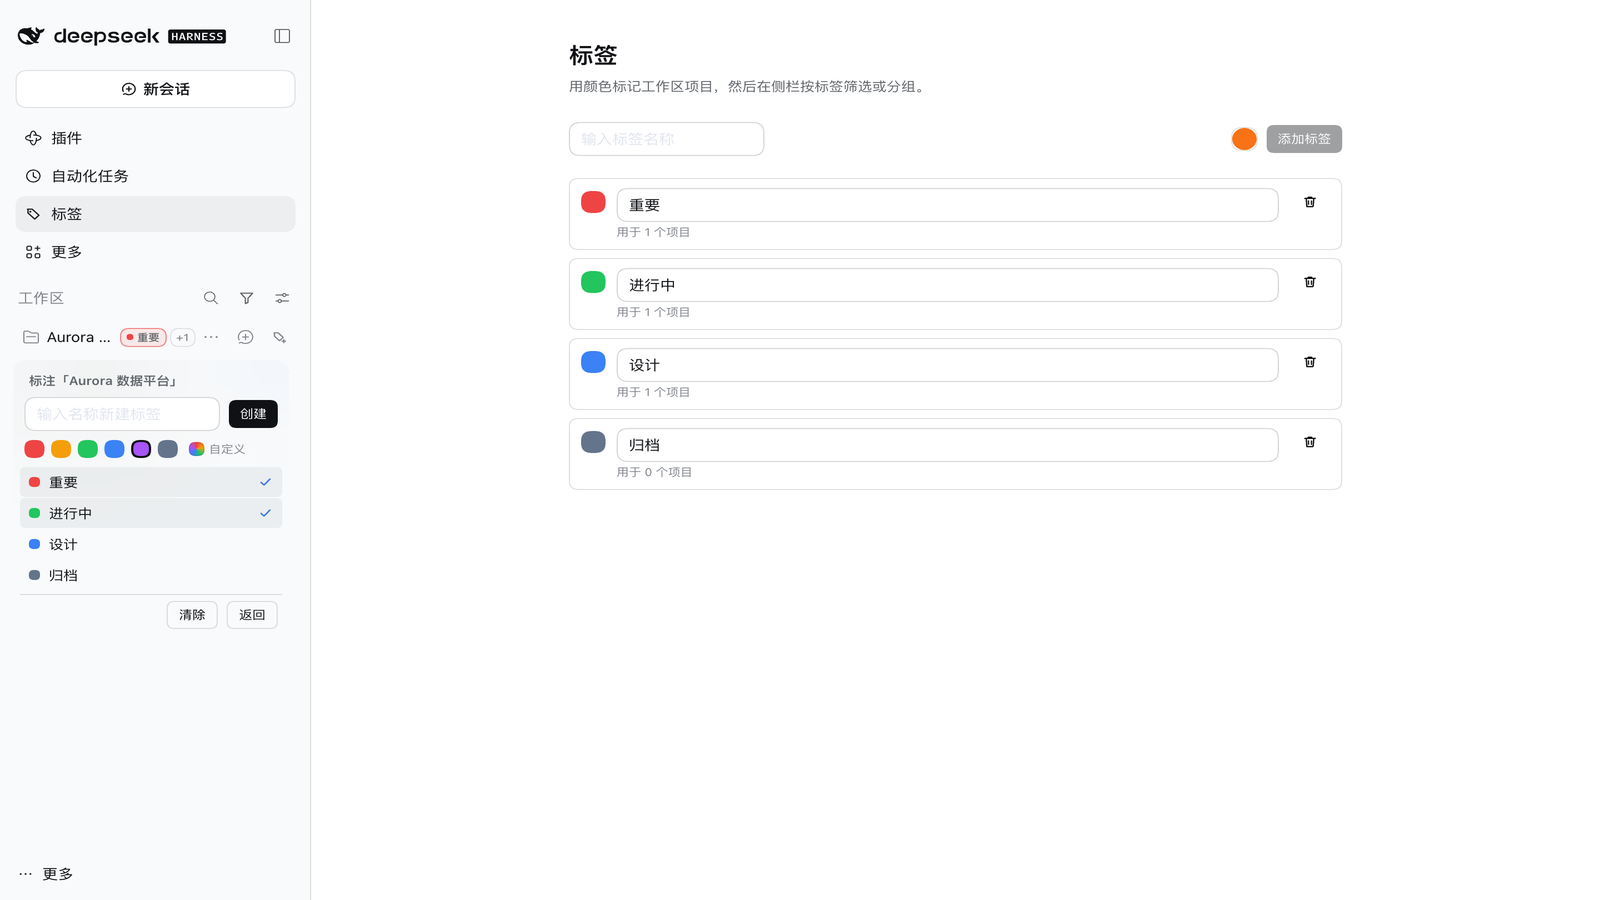
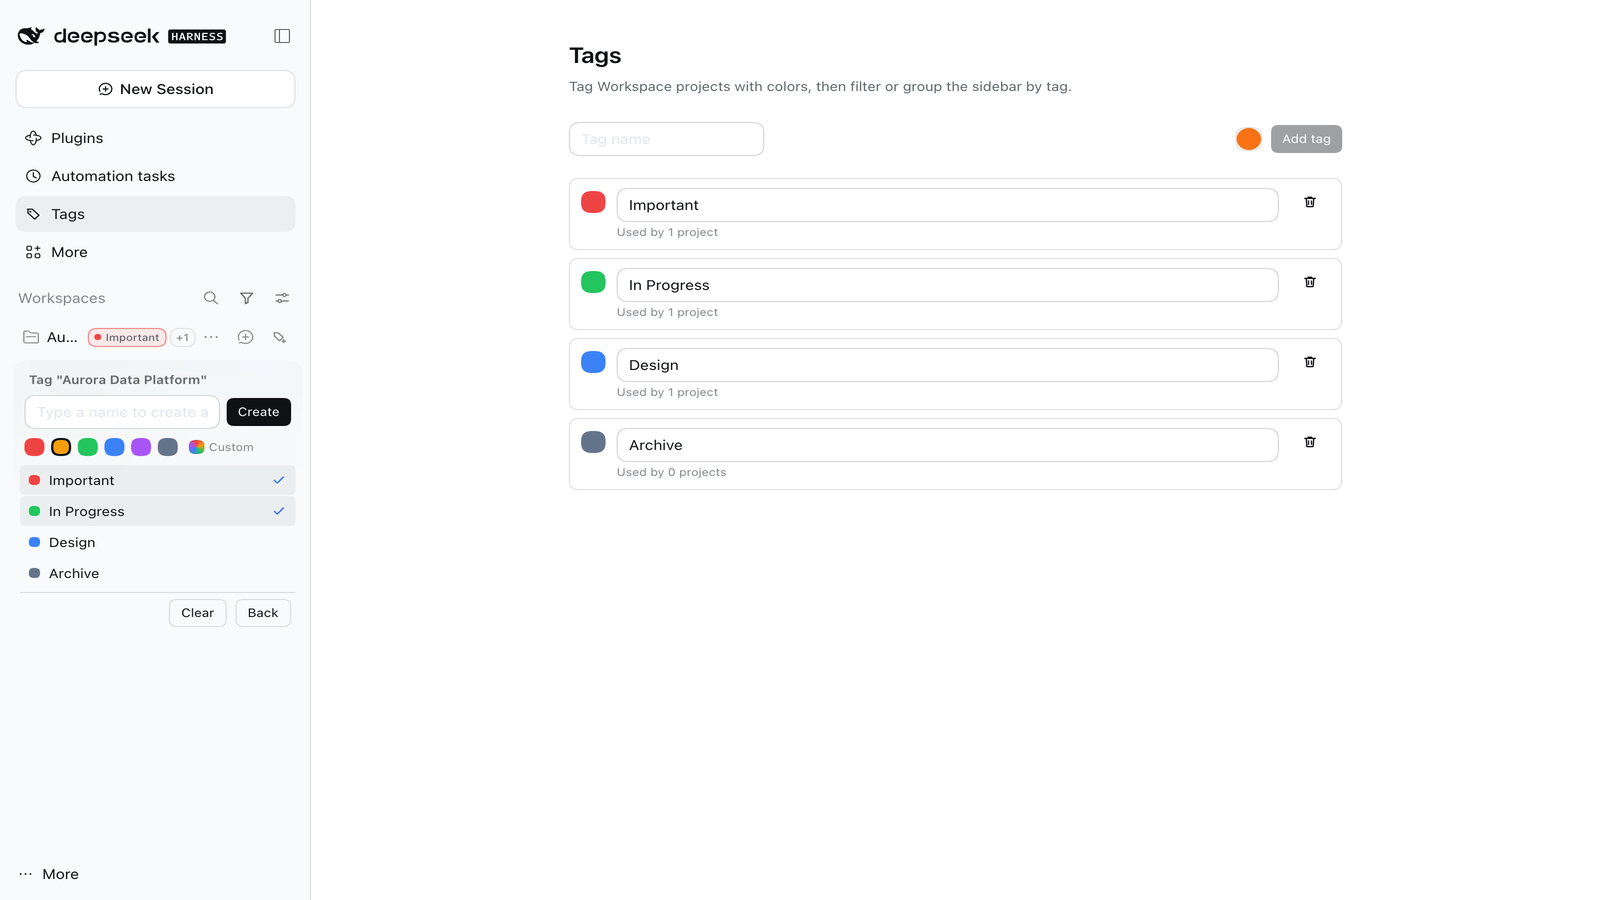
feat: add English screenshots and fix English pluralization
Add English-UI screenshots and point README.en.md at them, refresh the X
launch card with the English sidebar, and use singular copy for one-project
usage and group removal. Release 0.3.2.

diff --git a/src/client/locales.ts b/src/client/locales.ts
@@ -21,6 +21,7 @@ export const zh = {
   'page.empty': '还没有标签',
   'page.emptyHint': '在上方输入名称添加第一个标签，然后到工作区行上标注。',
   'page.usage': '用于 {count} 个项目',
+  'page.usageOne': '用于 {count} 个项目',
   'page.delete': '删除',
   'page.deleteConfirm': '删除「{name}」？它会从所有项目中移除。',
   'page.deleteCancel': '取消',
@@ -52,6 +53,7 @@ export const zh = {
   'group.clear.aria': '取消「{name}」标签',
   'group.clear.title': '取消标签「{name}」？',
   'group.clear.body': '将从该分组的 {count} 个项目移除该标签。标签本身会保留，可稍后再次使用。',
+  'group.clear.bodyOne': '将从该分组的 {count} 个项目移除该标签。标签本身会保留，可稍后再次使用。',
   'group.clear.confirm': '确认取消',
   'group.clear.back': '返回',
   'common.close': '关闭',
@@ -77,6 +79,7 @@ export const en: Record<WorkspaceTagsKey, string> = {
   'page.empty': 'No tags yet',
   'page.emptyHint': 'Add the first tag above, then annotate a Workspace row in the sidebar.',
   'page.usage': 'Used by {count} projects',
+  'page.usageOne': 'Used by {count} project',
   'page.delete': 'Delete',
   'page.deleteConfirm': 'Delete "{name}"? It will be removed from every project.',
   'page.deleteCancel': 'Cancel',
@@ -108,6 +111,7 @@ export const en: Record<WorkspaceTagsKey, string> = {
   'group.clear.aria': 'Remove tag "{name}"',
   'group.clear.title': 'Remove tag "{name}"?',
   'group.clear.body': 'This removes the tag from {count} projects in this group. The tag itself is kept and can be used again.',
+  'group.clear.bodyOne': 'This removes the tag from the project in this group. The tag itself is kept and can be used again.',
   'group.clear.confirm': 'Remove',
   'group.clear.back': 'Back',
   'common.close': 'Close',

diff --git a/src/client/components/GroupClearDialog.tsx b/src/client/components/GroupClearDialog.tsx
@@ -27,6 +27,7 @@ export interface GroupClearDialogProps {
 export function GroupClearDialog({ snapshot, t, onDismiss, onConfirm }: GroupClearDialogProps): ReactNode {
   const request = snapshot.groupClear
   if (request === null) return null
+  const count = request.workspaceIds.length
   return (
     <Modal
       open
@@ -45,7 +46,7 @@ export function GroupClearDialog({ snapshot, t, onDismiss, onConfirm }: GroupCle
       }
     >
       <p className="dshwt-dialog-body">
-        {t('group.clear.body', { count: request.workspaceIds.length })}
+        {t(count === 1 ? 'group.clear.bodyOne' : 'group.clear.body', { count })}
       </p>
     </Modal>
   )

diff --git a/src/client/components/TagManager.tsx b/src/client/components/TagManager.tsx
@@ -183,7 +183,7 @@ function TagRow({ tag, usage, t, renameTag, recolorTag, removeTag }: TagRowProps
           {confirming ? (
             <span className="dshwt-usage">{t('page.deleteConfirm', { name: tag.text })}</span>
           ) : (
-            <span className="dshwt-usage">{t('page.usage', { count: usage })}</span>
+            <span className="dshwt-usage">{t(usage === 1 ? 'page.usageOne' : 'page.usage', { count: usage })}</span>
           )}
           {error !== null ? <div className="dshwt-error" role="alert">{nameErrorMessage(error, t)}</div> : null}
         </div>

diff --git a/README.en.md b/README.en.md
@@ -8,7 +8,7 @@ English | [中文](README.md)
 [![License: MIT](https://img.shields.io/badge/license-MIT-blue.svg)](LICENSE)
 [![DSH](https://img.shields.io/badge/DSH-0.2.1--rc.5-4c6ef5)](docs/COMPATIBILITY.md)
 
-![Workspace tags preview](assets/preview.png)
+![Workspace tags preview](assets/en/preview.png)
 
 ## Why
 
@@ -28,13 +28,13 @@ The screenshots below show the UI in Chinese; the plugin ships English strings a
 
 ### Colored tags beside project names
 
-![Sidebar tags](assets/screenshot-sidebar.png)
+![Sidebar tags](assets/en/sidebar.png)
 
 Tags appear to the right of the project name: the chip contains a **colored dot**, its **border uses the tag color**, and the label follows the dot. One chip is shown at most; the rest collapse into `+N`. Hover the chip to see every tag on that project.
 
 ### Inline tagging
 
-![Annotation picker](assets/screenshot-picker.png)
+![Annotation picker](assets/en/picker.png)
 
 Hover a workspace row and click the tag button at the end of the row (or click an existing chip) to open the picker:
 
@@ -44,11 +44,11 @@ Hover a workspace row and click the tag button at the end of the row (or click a
 - If the name already exists, the existing tag is assigned instead of creating a duplicate
 - Click a tag row to toggle its assignment; **Clear** removes all tags from that project
 
-![Custom color](assets/screenshot-picker-custom.png)
+![Custom color](assets/en/picker-custom.png)
 
 ### Filter by tag
 
-![Tag filter](assets/screenshot-filter.png)
+![Tag filter](assets/en/filter.png)
 
 A funnel icon appears in the workspace header once tags exist:
 
@@ -59,21 +59,21 @@ A funnel icon appears in the workspace header once tags exist:
 
 ### Group by tag
 
-![Group by tag](assets/screenshot-grouped.png)
+![Group by tag](assets/en/grouped.png)
 
 View options (the slider icon in the workspace header) → grouping → **By tag**. The menu entry uses the same layout as the native grouping options: icon on the left, label on the right.
 
-![Grouping menu](assets/screenshot-view-menu.png)
+![Grouping menu](assets/en/view-menu.png)
 
 The list is grouped in tag creation order. Group rows use the same format as native workspace rows (34px tall, dot/chevron, 14px bold tag name, project count); the projects under a group are indented one level. Untagged projects go to **Untagged**. Selecting any native grouping mode exits this mode.
 
 **Collapse**: click a group row (or press Enter/Space) to collapse/expand it. The row stays visible and keeps the count.
 
-![Collapsed group](assets/screenshot-group-collapsed.png)
+![Collapsed group](assets/en/group-collapsed.png)
 
 **Remove from group**: hover a group row and click **Remove**; after confirmation the tag is removed from every project in that group. The tag definition itself is kept and can be used again.
 
-![Remove tag from group](assets/screenshot-group-confirm.png)
+![Remove tag from group](assets/en/group-confirm.png)
 
 > A project appears once: with multiple tags it is grouped under the **earliest-created** tag (the chips still show all tags).
 >
@@ -81,7 +81,7 @@ The list is grouped in tag creation order. Group rows use the same format as nat
 
 ### Tags page
 
-![Tags page](assets/screenshot-tag-page.png)
+![Tags page](assets/en/tag-page.png)
 
 A **Tags** row is added above **More** in the sidebar panel list. It opens the tag manager:
 

diff --git a/docs/X-PROMOTION.md b/docs/X-PROMOTION.md
@@ -1,6 +1,6 @@
 # X 推广素材
 
-当前状态：GitHub Release **v0.3.1** 已发布；npm 包**尚未发布**（2FA 阻塞，见 `docs/MARKETPLACE.md`）。因此 X 主帖先链接 GitHub Release，安装回复使用 Release 附件。等 npm 发布后，再在回复里补 npm 与插件市场索引。
+当前状态：GitHub Release **v0.3.2** 已发布；npm 包**尚未发布**（2FA 阻塞，见 `docs/MARKETPLACE.md`）。因此 X 主帖先链接 GitHub Release，安装回复使用 Release 附件。等 npm 发布后，再在回复里补 npm 与插件市场索引。
 
 > 本环境没有 X 账号或 X API 凭证，无法代替你点击发布。下面的「一键打开 X 发帖窗口」链接需要你登录 X 后，**手动附上图片**再发布。若你希望我尝试 API 自动发帖，需要提供 X 开发者 App 的 user-context token（不推荐；OAuth 和 2FA 都更麻烦）。
 
@@ -10,8 +10,8 @@
 |---|---|---|---|
 | 主帖头图 | `assets/x-launch.png` | 1200×675 | DeepSeek Harness sidebar with colored workspace tag chips, next to a “Workspace Tags” title card |
 | 回复 1：标注 | `assets/x-picker.png` | 1600×900 | Annotation picker with six preset colors, a custom color control, Create and Back buttons |
-| 回复 2：筛选 | `assets/screenshot-filter.png` | 1600×900 | Tag filter dropdown with multi-select tags and a Reset button |
-| 回复 3：分组/取消 | `assets/screenshot-group-confirm.png` | 1600×900 | Confirmation dialog for removing a tag from an entire group |
+| 回复 2：筛选 | `assets/en/filter.png` | 1600×900 | Tag filter dropdown with multi-select tags and a Reset button |
+| 回复 3：分组/取消 | `assets/en/group-confirm.png` | 1600×900 | Confirmation dialog for removing a tag from an entire group |
 
 ## 主帖（English，253/280 加权字符）
 
@@ -55,7 +55,7 @@ Filter: multi-select union, a fixed Reset, and an empty state when nothing match
 Chips carry a color dot and a tag-colored border.
 ```
 
-Attach `assets/screenshot-filter.png`.
+Attach `assets/en/filter.png`.
 
 **Reply 3 — grouping**
 
@@ -64,7 +64,7 @@ Group by tag: native-format rows, collapse/expand, and remove a tag from the who
 Projects are grouped under their earliest tag.
 ```
 
-Attach `assets/screenshot-group-confirm.png`.
+Attach `assets/en/group-confirm.png`.
 
 **Reply 4 — install**
 

diff --git a/docs/MARKETPLACE.md b/docs/MARKETPLACE.md
@@ -10,7 +10,7 @@
 | 包是否可直接发布 | 是：`prepack` 会构建，`files` 包含 `lib/`、`client/`，已声明 `dsh.bundle` 和 `dsh-plugin` 关键词 |
 | 当前安装方式 | GitHub Release 附件（`dsh-workspace-tags.tgz`），无需本地构建 |
 | 是否已进入 npm / 社区索引 | **尚未发布**；发布需要 npm token |
-| GitHub Release | v0.3.1 已发布，附件由 CI 构建 |
+| GitHub Release | v0.3.2 已发布，附件由 CI 构建 |
 
 ## 一、DSH 插件市场是怎么工作的
 

diff --git a/CHANGELOG.md b/CHANGELOG.md
@@ -2,6 +2,13 @@
 
 本项目的所有重要变更都记录在这里。格式参考 [Keep a Changelog](https://keepachangelog.com/zh-CN/1.1.0/)，版本号遵循 [SemVer](https://semver.org/lang/zh-CN/)。
 
+## [0.3.2] - 2026-11-05
+
+### 变更
+
+- 英文文案的单复数修正：标签用量（Used by 1 project）与分组移除确认。
+- 英文 README 改用英文界面截图（`assets/en/`），X 推广素材同步为英文界面。
+
 ## [0.3.1] - 2026-11-04
 
 ### 变更
